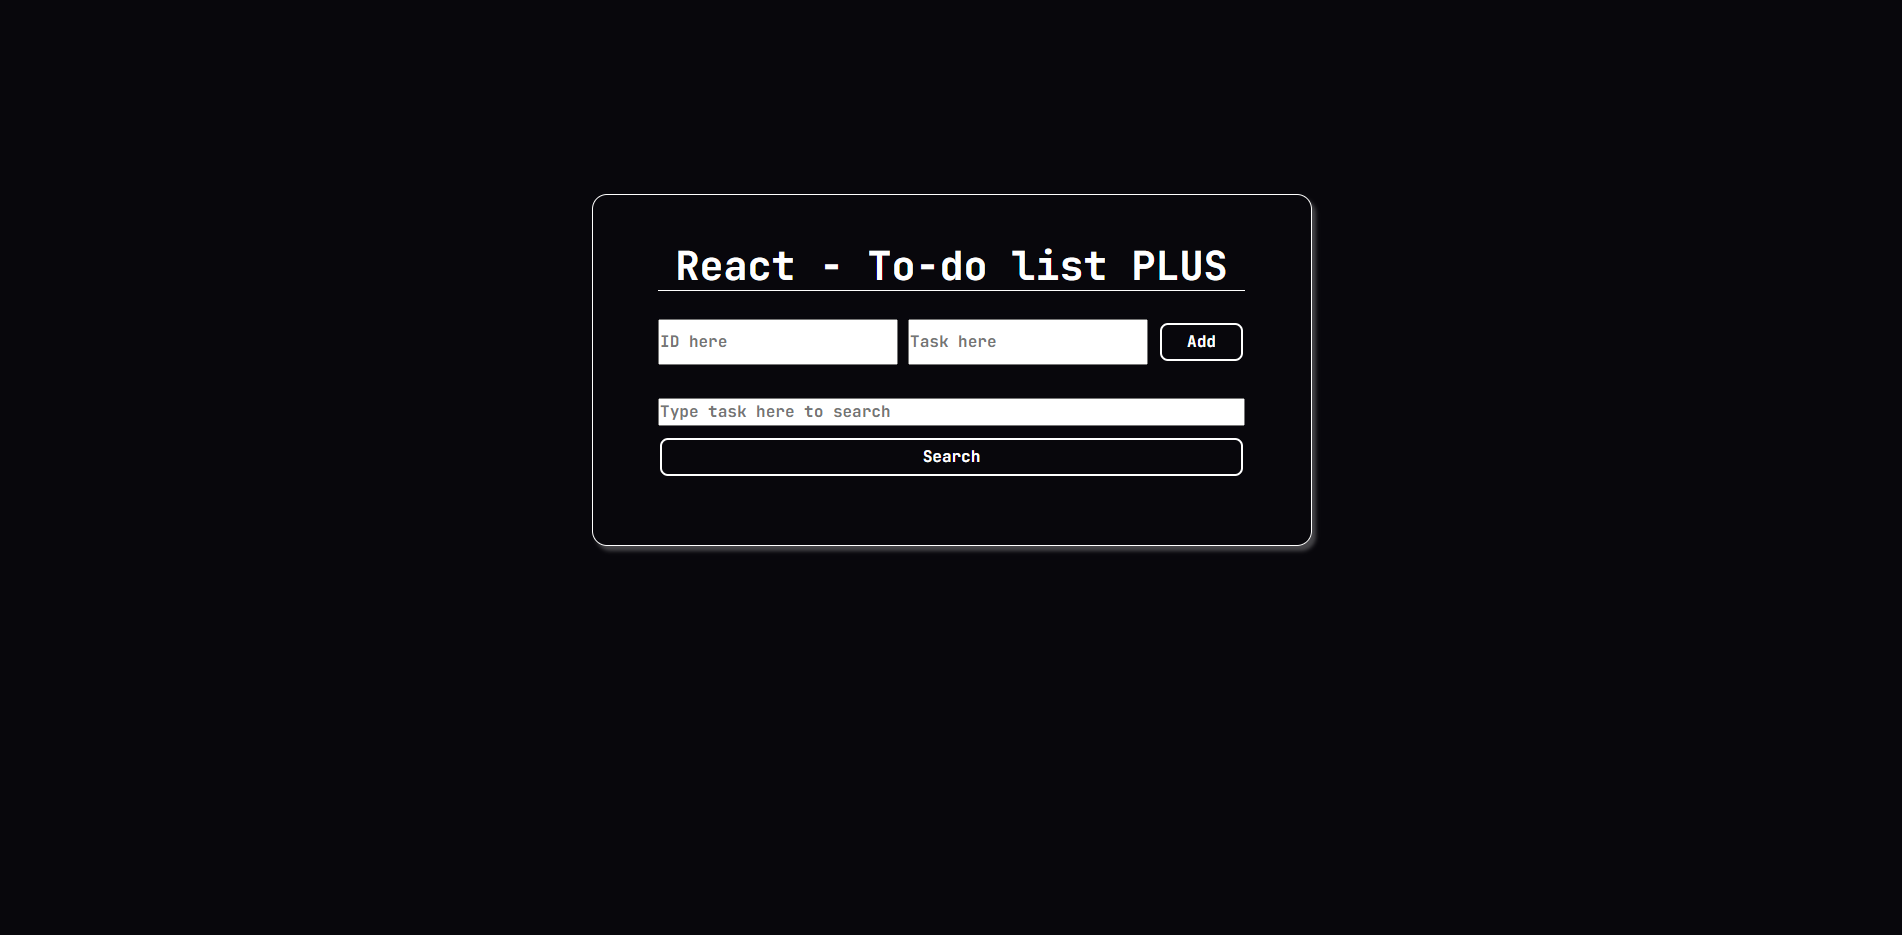
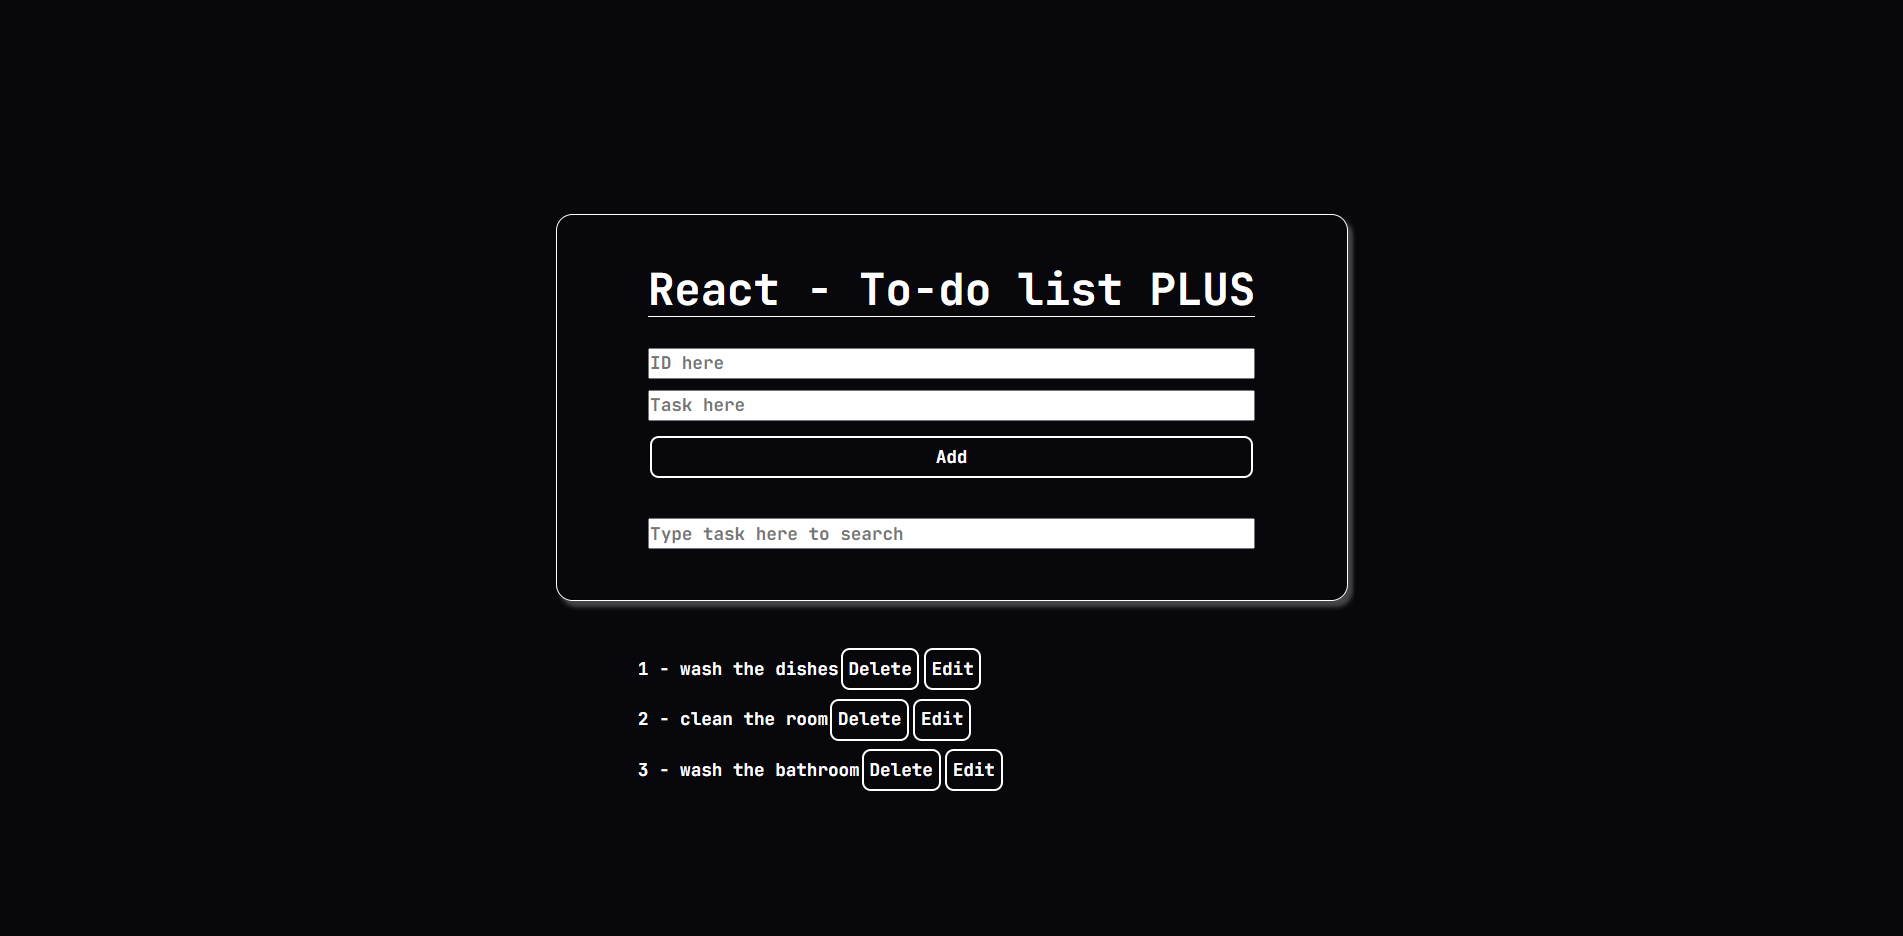
Last Update 12May 16:04
Last small changes.
Screenshot.png updated.

Changed region(s): [[0.2792, 0.2171, 0.7135, 0.6513], [0.3412, 0.6824, 0.5273, 0.8684]]

diff --git a/To-Do-List-PLUS-ReactJS/wwwroot/clientapp/src/views/listplus/Index.js b/To-Do-List-PLUS-ReactJS/wwwroot/clientapp/src/views/listplus/Index.js
@@ -13,7 +13,7 @@ export default class Index
                 id: "",
                 task: "",
             },
-            tasks: [],
+            tasks: [{id: "1", task: "wash the dishes"}, {id: "2", task: "clean the room"}, {id: "3", task: "wash the bathroom"}],
             indexEdicao: -1,
             filter: ""
         }
@@ -102,7 +102,6 @@ export default class Index
                         <input class="search-input" placeholder="Type task here to search" type="search" value={this.state.filter} onChange={(e) => this.setState({ ...this.state, filter: e.target.value }, () => { this.search() } )}/>
                     </div>            
                     <br />
-                    <br />
                 </div>
                     <table class="list-search">
                     {         
@@ -111,15 +110,13 @@ export default class Index
                             {
                                 return (    
                                     <tr>
-                                        <td class="search-result">{i.id + " - " + i.task}</td>
-                                        <div class="search-buttons">
+                                        <td>{i.id + " - " + i.task}</td>
                                             <td>
                                                 <button class="search-button-delete" type="button" onClick={() => this.delete(i)}>Delete</button>
                                             </td>
                                             <td>
                                                 <button class="search-button-edit" type="button" onClick={() => this.edit(i)}>Edit</button>
                                             </td>
-                                        </div>
                                     </tr>
                                 )
                             }                           

diff --git a/To-Do-List-PLUS-ReactJS/wwwroot/clientapp/src/views/listplus/styles.css b/To-Do-List-PLUS-ReactJS/wwwroot/clientapp/src/views/listplus/styles.css
@@ -49,7 +49,7 @@ td {
 
 .form {
     display: flex;
-    flex-direction: row;
+    flex-direction: column;
     padding-top: 20px;
     padding-bottom: 25px;
     gap: 10px;
@@ -74,15 +74,9 @@ button-style:houver {
 .list-search {
     display: flex;
     flex-direction: column;
-    align-items: space-around;
     height: 500px;
     padding-top: 3%;
     padding-left: 28%;
-}
-
-tr {
-    display: flex;
-    flex-direction: row;
 }
 
 .search-input {
@@ -111,8 +105,4 @@ button:hover {
 
 .search-button-edit:hover {
     background-color: rgb(38, 38, 206);
-}
-
-.search-result {
-    padding-left: 30px;
 }
